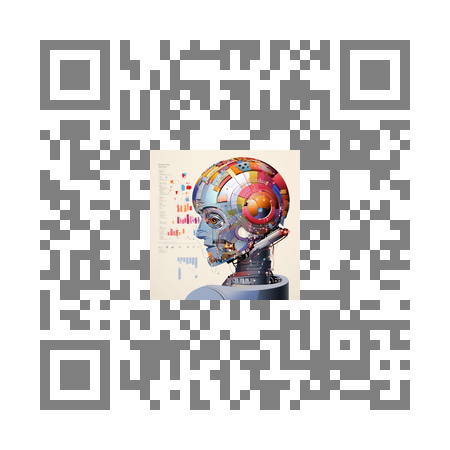
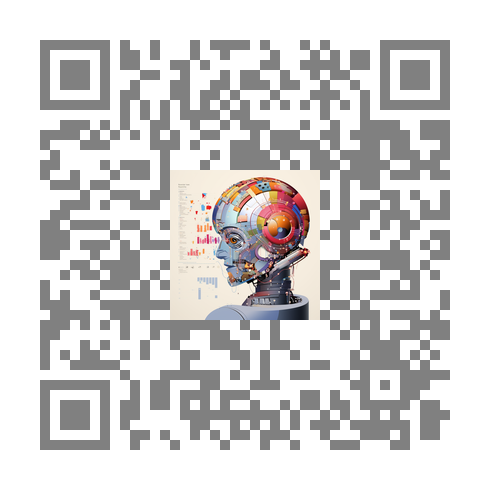
donga

diff --git a/talks/donga/chatsqc.html b/talks/donga/chatsqc.html
@@ -14,7 +14,7 @@
     <script src="libs/xaringanExtra_fit-screen/fit-screen.js"></script>
     <link href="libs/panelset/panelset.css" rel="stylesheet" />
     <script src="libs/panelset/panelset.js"></script>
-    <script type="application/json" id="xaringanExtra-editable-docid">{"id":"x1edefe916da4c73bbea346f7aa79bc9","expires":14}</script>
+    <script type="application/json" id="xaringanExtra-editable-docid">{"id":"cce0c0b15ee34f3b97a4e09ec0d0b23b","expires":14}</script>
     <script src="libs/himalaya/himalaya.js"></script>
     <script src="libs/js-cookie/js.cookie.js"></script>
     <link href="libs/editable/editable.css" rel="stylesheet" />
@@ -289,7 +289,11 @@ class: inverse, center, middle
 
 &lt;br&gt;
 
-Megahed, F. M., Chen, Y. J., Zwetsloot, I., Knoth, S., Montgomery, D.C., &amp; Jones-Farmer, L. A. (2023). AI and the Future of Work in Statistical Quality Control: Insights from a First Attempt to Augmenting ChatGPT with an SQC Knowledge Base (ChatSQC). To be submitted to publication (next week).
+.pull-left-2[Megahed, F. M., Chen, Y. J., Zwetsloot, I., Knoth, S., Montgomery, D.C., &amp; Jones-Farmer, L. A. (2023). AI and the Future of Work in Statistical Quality Control: Insights from a First Attempt to Augmenting ChatGPT with an SQC Knowledge Base (ChatSQC). 
+
+Available on [arXiv](https://arxiv.org/pdf/2308.13550.pdf).]
+
+.pull-right-2[&lt;div&gt;&lt;img src="figs/paper2_qr_code.png" class="paper-img" width="300px" align="right"&gt;&lt;/div&gt;]
 
 ---
 
